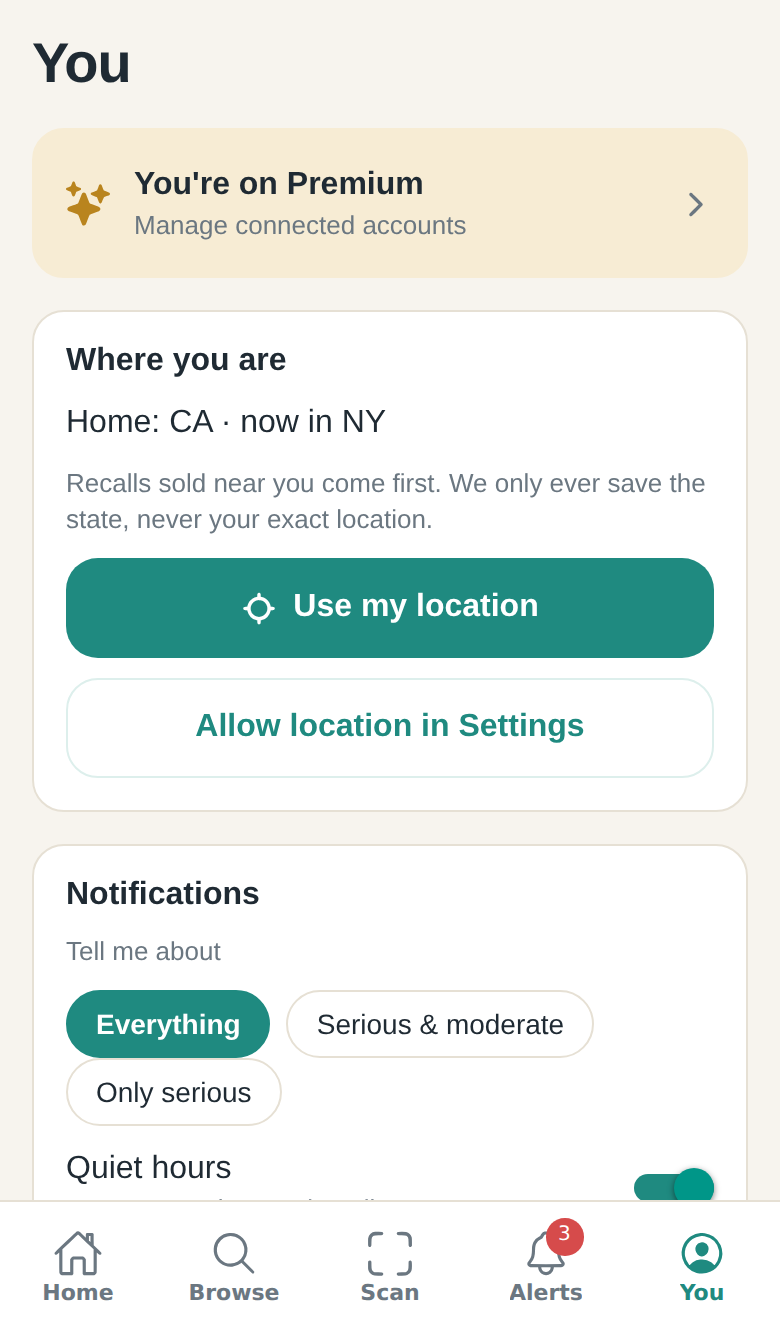
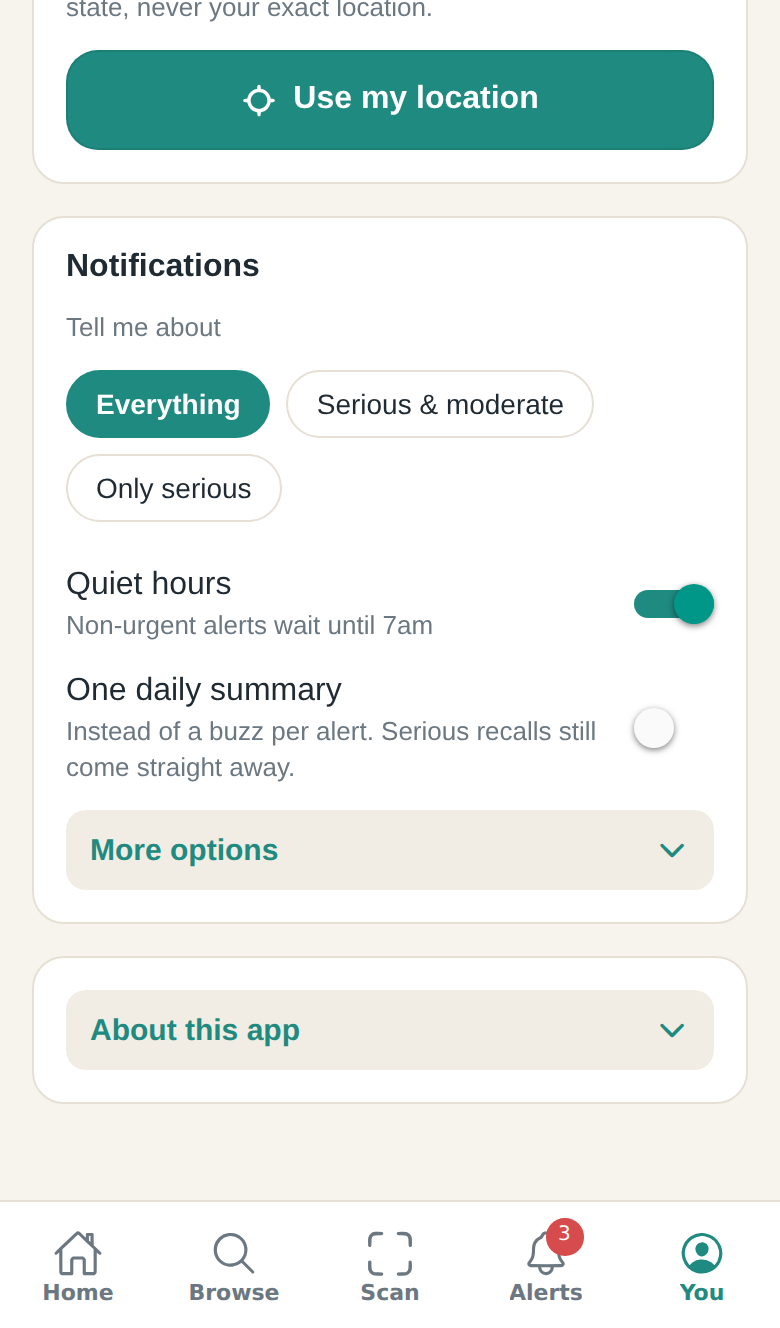
Tighten mobile UI spacing, add visible button borders, and fix copy
- Every Button variant now has a border: outlined buttons use the accent
  color, secondary uses a soft teal edge, filled buttons get a subtle edge
- Button rows and stacks use a consistent 12pt gap; Card content gap is 12
- Alert detail dismiss actions stack full-width so labels never wrap
- Pills get a bottom margin so wrapped rows don't touch; tiles and
  disclosure rows get edges/panels; Inputs show an accent focus ring
  instead of the browser outline
- US spelling throughout ("flying colors", comments)
- Refresh screenshots

Claude-Session: https://claude.ai/code/session_01F3ZstUUrkXpatEAcj7SK8v

diff --git a/apps/mobile/src/components/ui.tsx b/apps/mobile/src/components/ui.tsx
@@ -59,13 +59,16 @@ export function Button({
   style,
   ...rest
 }: Omit<PressableProps, "style"> & { title: string; variant?: "primary" | "secondary" | "ghost" | "danger" | "premium"; loading?: boolean; icon?: React.ComponentProps<typeof Ionicons>["name"]; style?: StyleProp<ViewStyle> }) {
-  const bg = variant === "primary" ? colors.accent : variant === "danger" ? colors.critical : variant === "premium" ? colors.premium : variant === "secondary" ? colors.accentSoft : "transparent";
+  const bg = variant === "primary" ? colors.accent : variant === "danger" ? colors.critical : variant === "premium" ? colors.premium : variant === "secondary" ? colors.accentSoft : colors.card;
   const fg = variant === "secondary" ? colors.accent : variant === "ghost" ? colors.accent : "#fff";
+  // Every button has a visible edge: filled ones carry a slightly darker border of their own
+  // color, outlined ones a clear accent border, so nothing reads as loose text.
+  const border = variant === "ghost" ? styles.ghost : variant === "secondary" ? styles.secondary : styles.filledEdge;
   return (
     <Pressable
       accessibilityRole="button"
       accessibilityLabel={title}
-      style={({ pressed }) => [styles.button, { backgroundColor: bg, opacity: pressed || rest.disabled ? 0.6 : 1 }, variant === "ghost" && styles.ghost, style]}
+      style={({ pressed }) => [styles.button, border, { backgroundColor: bg, opacity: pressed || rest.disabled ? 0.6 : 1 }, style]}
       {...rest}
     >
       {loading ? (
@@ -81,7 +84,22 @@ export function Button({
 }
 
 export function Input(props: TextInputProps) {
-  return <TextInput placeholderTextColor={colors.muted} {...props} style={[styles.input, props.style]} />;
+  const [focused, setFocused] = useState(false);
+  return (
+    <TextInput
+      placeholderTextColor={colors.muted}
+      {...props}
+      onFocus={(e) => {
+        setFocused(true);
+        props.onFocus?.(e);
+      }}
+      onBlur={(e) => {
+        setFocused(false);
+        props.onBlur?.(e);
+      }}
+      style={[styles.input, focused && styles.inputFocused, props.style]}
+    />
+  );
 }
 
 /** Friendly severity chip: "Serious" / "Moderate" / "Minor" with a dot, no class numbers. */
@@ -220,20 +238,23 @@ export function Loading() {
 
 const styles = StyleSheet.create({
   screen: { flex: 1, backgroundColor: colors.bg },
-  card: { backgroundColor: colors.card, borderRadius: radius.md, padding: spacing(2), borderWidth: 1, borderColor: colors.border, gap: 10 },
+  card: { backgroundColor: colors.card, borderRadius: radius.md, padding: spacing(2), borderWidth: 1, borderColor: colors.border, gap: 12 },
   title: { color: colors.text, fontSize: 28, fontWeight: "800", letterSpacing: -0.5 },
   heading: { color: colors.text, fontSize: 18, fontWeight: "800" },
   subtitle: { color: colors.text, fontSize: 16, fontWeight: "700" },
   body: { color: colors.text, fontSize: 16, lineHeight: 23 },
   small: { color: colors.muted, fontSize: 13, lineHeight: 18 },
-  button: { paddingVertical: 14, paddingHorizontal: 20, borderRadius: radius.md, alignItems: "center", justifyContent: "center", minHeight: 50 },
-  ghost: { borderWidth: 1.5, borderColor: colors.accentSoft },
+  button: { paddingVertical: 13, paddingHorizontal: 20, borderRadius: radius.md, alignItems: "center", justifyContent: "center", minHeight: 50, borderWidth: 1.5 },
+  ghost: { borderColor: colors.accent },
+  secondary: { borderColor: "rgba(31,138,128,0.35)" },
+  filledEdge: { borderColor: "rgba(0,0,0,0.08)" },
   buttonText: { fontWeight: "700", fontSize: 16 },
-  input: { backgroundColor: colors.card, color: colors.text, borderRadius: radius.md, paddingHorizontal: 16, paddingVertical: 14, fontSize: 16, borderWidth: 1, borderColor: colors.border },
+  input: { backgroundColor: colors.card, color: colors.text, borderRadius: radius.md, paddingHorizontal: 16, paddingVertical: 14, fontSize: 16, borderWidth: 1.5, borderColor: colors.border, outlineWidth: 0 },
+  inputFocused: { borderColor: colors.accent },
   chip: { alignSelf: "flex-start", flexDirection: "row", alignItems: "center", gap: 6, borderRadius: radius.pill, paddingHorizontal: 10, paddingVertical: 4 },
   chipText: { fontSize: 12, fontWeight: "700" },
   dot: { width: 8, height: 8, borderRadius: 4 },
-  pill: { flexDirection: "row", alignItems: "center", gap: 6, borderWidth: 1, borderColor: colors.border, backgroundColor: colors.card, borderRadius: radius.pill, paddingHorizontal: 14, paddingVertical: 8, marginRight: 8 },
+  pill: { flexDirection: "row", alignItems: "center", gap: 6, borderWidth: 1.5, borderColor: colors.border, backgroundColor: colors.card, borderRadius: radius.pill, paddingHorizontal: 14, paddingVertical: 8, marginRight: 8, marginBottom: 8 },
   pillText: { color: colors.text, fontSize: 14 },
   row: { flexDirection: "row", alignItems: "center", gap: 12, padding: spacing(2), backgroundColor: colors.card, borderRadius: radius.md, borderWidth: 1, borderColor: colors.border },
   emojiBox: { width: 48, height: 48, borderRadius: 14, alignItems: "center", justifyContent: "center" },
@@ -241,11 +262,11 @@ const styles = StyleSheet.create({
   rowReason: { color: colors.muted, fontSize: 14 },
   rowNote: { color: colors.accent, fontSize: 13 },
   rowMeta: { color: colors.muted, fontSize: 12 },
-  tile: { flex: 1, borderRadius: radius.lg, padding: spacing(2), gap: 8, minHeight: 118 },
+  tile: { flex: 1, borderRadius: radius.lg, padding: spacing(2), gap: 8, minHeight: 118, borderWidth: 1, borderColor: "rgba(0,0,0,0.06)" },
   tileIcon: { width: 40, height: 40, borderRadius: 12, alignItems: "center", justifyContent: "center" },
   tileTitle: { color: colors.text, fontSize: 16, fontWeight: "700" },
   tileSub: { color: colors.muted, fontSize: 13 },
-  disclosure: { flexDirection: "row", alignItems: "center", justifyContent: "space-between", paddingVertical: 6 },
+  disclosure: { flexDirection: "row", alignItems: "center", justifyContent: "space-between", paddingVertical: 10, paddingHorizontal: 12, borderRadius: radius.sm, backgroundColor: colors.cardAlt },
   disclosureText: { color: colors.accent, fontWeight: "700", fontSize: 15 },
   empty: { padding: spacing(4), alignItems: "center", gap: 8 },
   emptyIcon: { width: 56, height: 56, borderRadius: 28, backgroundColor: colors.accentSoft, alignItems: "center", justifyContent: "center" },

diff --git a/apps/mobile/app/(tabs)/settings.tsx b/apps/mobile/app/(tabs)/settings.tsx
@@ -96,7 +96,7 @@ export default function SettingsScreen() {
             <Subtitle>Where you are</Subtitle>
             <Body>{me.data?.homeState ? `Home: ${me.data.homeState}${me.data.lastKnownState && me.data.lastKnownState !== me.data.homeState ? ` · now in ${me.data.lastKnownState}` : ""}` : "We don't know your state yet"}</Body>
             <Small>Recalls sold near you come first. We only ever save the state, never your exact location.</Small>
-            <View style={{ flexDirection: "row", gap: 8 }}>
+            <View style={{ flexDirection: "row", gap: 12 }}>
               <Button title={loc.busy ? "Finding you…" : "Use my location"} icon="locate" style={{ flex: 1 }} loading={loc.busy} onPress={() => void loc.refresh({ ask: true, setHome: !me.data?.homeState })} />
               {loc.state ? <Button title="Set as home" variant="secondary" onPress={() => void loc.refresh({ ask: true, setHome: true })} /> : null}
             </View>
@@ -185,7 +185,7 @@ export default function SettingsScreen() {
 
           <Card>
             <Collapsible title="About this app">
-              <View style={{ gap: 8 }}>
+              <View style={{ gap: 12 }}>
                 <Small>
                   We pull every recall a few times a day from the FDA, USDA and CPSC into one place, so your phone never has to. This app surfaces official notices; always follow the instructions in the recall itself.
                 </Small>

diff --git a/apps/mobile/app/alert/[id].tsx b/apps/mobile/app/alert/[id].tsx
@@ -78,7 +78,7 @@ export default function AlertDetail() {
                 </View>
               </>
             ) : null}
-            <View style={{ gap: 8 }}>
+            <View style={{ gap: 12 }}>
               <Button
                 title="Yes — I dealt with it"
                 icon="checkmark"
@@ -92,10 +92,8 @@ export default function AlertDetail() {
                 }
               />
               <Button title="Checked — mine's not affected" variant="secondary" onPress={() => actions.resolve.mutate({ id, action: "checked_not_affected" })} />
-              <View style={{ flexDirection: "row", gap: 8 }}>
-                <Button title="Don't have it" variant="ghost" style={{ flex: 1 }} onPress={() => actions.dismiss.mutate({ id, reason: "dont_have" })} />
-                <Button title="Not my product" variant="ghost" style={{ flex: 1 }} onPress={() => actions.dismiss.mutate({ id, reason: "false_match" })} />
-              </View>
+              <Button title="I don't have this" variant="ghost" onPress={() => actions.dismiss.mutate({ id, reason: "dont_have" })} />
+              <Button title="This isn't my product" variant="ghost" onPress={() => actions.dismiss.mutate({ id, reason: "false_match" })} />
             </View>
           </Card>
         )}

diff --git a/apps/mobile/app/watch/restaurant.tsx b/apps/mobile/app/watch/restaurant.tsx
@@ -125,7 +125,7 @@ export default function NewRestaurant() {
           <Body muted>We'll find its health grade and who supplies the kitchen, and tell you if either changes.</Body>
           <Button title={loc.busy ? "Locating…" : "I'm here — use my location"} variant="ghost" loading={loc.busy} onPress={() => void useMyLocation()} />
           {nearby.length ? (
-            <View style={{ gap: 6 }}>
+            <View style={{ gap: 10 }}>
               <Body muted>Tracked restaurants nearby</Body>
               {nearby.slice(0, 5).map((n) => (
                 <Pressable key={n.profileId} onPress={() => pickNearby(n)} style={styles.nearby}>
@@ -148,7 +148,7 @@ export default function NewRestaurant() {
             }}
           />
           {catalog.length ? (
-            <View style={{ gap: 6 }}>
+            <View style={{ gap: 10 }}>
               <Body muted>Already known — tap to use it</Body>
               {catalog.slice(0, 5).map((c) => (
                 <Pressable key={c.profileId} onPress={() => pickCatalog(c)} style={styles.nearby} accessibilityRole="button">

diff --git a/apps/mobile/app/(tabs)/scan.tsx b/apps/mobile/app/(tabs)/scan.tsx
@@ -266,6 +266,6 @@ const styles = StyleSheet.create({
   frameWrap: { position: "absolute", top: 0, left: 0, right: 0, bottom: 0, alignItems: "center", justifyContent: "center" },
   frame: { width: "78%", aspectRatio: 1.4, borderWidth: 3, borderColor: "rgba(255,255,255,0.9)", borderRadius: 18 },
   frameTall: { aspectRatio: 0.6, width: "62%" },
-  overlay: { position: "absolute", left: 0, right: 0, bottom: 0, padding: spacing(2), gap: spacing(1), backgroundColor: "rgba(247,244,238,0.95)", borderTopLeftRadius: 22, borderTopRightRadius: 22 },
+  overlay: { position: "absolute", left: 0, right: 0, bottom: 0, padding: spacing(2), gap: spacing(1.5), backgroundColor: "rgba(247,244,238,0.95)", borderTopLeftRadius: 22, borderTopRightRadius: 22 },
   hint: { color: colors.text, textAlign: "center", marginBottom: 4, fontWeight: "600" },
 });

diff --git a/apps/mobile/src/components/RestaurantMap.native.tsx b/apps/mobile/src/components/RestaurantMap.native.tsx
@@ -16,7 +16,7 @@ export interface RestaurantMapProps {
   onRegionSettled: (c: { latitude: number; longitude: number; radiusKm: number }) => void;
 }
 
-/** Apple Maps on iOS, Google Maps on Android (via react-native-maps). Pins are coloured by rating. */
+/** Apple Maps on iOS, Google Maps on Android (via react-native-maps). Pins are colored by rating. */
 export function RestaurantMap({ center, radiusKm, items, selectedId, onSelect, onOpen, onRegionSettled }: RestaurantMapProps) {
   const ref = useRef<MapView>(null);
   const delta = Math.max(0.01, (radiusKm * 2) / 111);

diff --git a/apps/mobile/src/components/Stars.tsx b/apps/mobile/src/components/Stars.tsx
@@ -6,7 +6,7 @@ import { colors } from "@/lib/theme";
 
 const levelColor: Record<SafetyRating["level"], string> = { good: colors.success, ok: colors.high, poor: colors.critical, unknown: colors.unknown };
 
-/** 1–5 stars in half steps, coloured by level. "No rating" when there's nothing to rate on. */
+/** 1–5 stars in half steps, colored by level. "No rating" when there's nothing to rate on. */
 export function Stars({ rating, size = 16, showNumber = true }: { rating: SafetyRating; size?: number; showNumber?: boolean }) {
   if (rating.stars == null) {
     return (

diff --git a/apps/mobile/src/lib/friendly.ts b/apps/mobile/src/lib/friendly.ts
@@ -109,7 +109,7 @@ export function gradeFriendly(grade: RestaurantGrade | null | undefined): { titl
   const g = grade.grade ?? String(grade.score);
   switch (grade.level) {
     case "good":
-      return { title: `Grade ${g}`, body: "Passed its last inspection with flying colours.", level: "good" };
+      return { title: `Grade ${g}`, body: "Passed its last inspection with flying colors.", level: "good" };
     case "ok":
       return { title: `Grade ${g}`, body: "Passed, but inspectors found some things to fix.", level: "ok" };
     case "poor":

diff --git a/apps/mobile/app/recall/[id].tsx b/apps/mobile/app/recall/[id].tsx
@@ -69,7 +69,7 @@ export default function RecallDetail() {
           </Card>
         ) : null}
 
-        <View style={{ flexDirection: "row", gap: 10 }}>
+        <View style={{ flexDirection: "row", gap: 12 }}>
           <Button title="I have this" icon="eye" style={{ flex: 1 }} onPress={() => router.push({ pathname: "/watch/new", params: { prefill: headline(r) } })} />
           <Button title="Share" icon="share-social-outline" variant="secondary" style={{ flex: 1 }} onPress={share} />
         </View>

diff --git a/apps/mobile/app/premium/connectors.tsx b/apps/mobile/app/premium/connectors.tsx
@@ -70,7 +70,7 @@ export default function ConnectorsScreen() {
             </View>
             <Body muted>{c.provider} · {c.mcpUrl}</Body>
             {c.lastSyncError ? <Body style={{ color: colors.critical }}>{c.lastSyncError}</Body> : null}
-            <View style={{ flexDirection: "row", gap: 8 }}>
+            <View style={{ flexDirection: "row", gap: 12 }}>
               <Button
                 title="Import my purchases"
                 style={{ flex: 1 }}

diff --git a/apps/mobile/src/lib/receiptLayout.ts b/apps/mobile/src/lib/receiptLayout.ts
@@ -12,7 +12,7 @@ export interface Row {
   y: number;
 }
 
-/** Group lines whose vertical centres fall within `tolerance` (fraction of image height). */
+/** Group lines whose vertical centers fall within `tolerance` (fraction of image height). */
 export function reconstructRows(lines: OcrLine[], tolerance = 0.012): Row[] {
   const sorted = [...lines]
     .filter((l) => l.text.trim())
